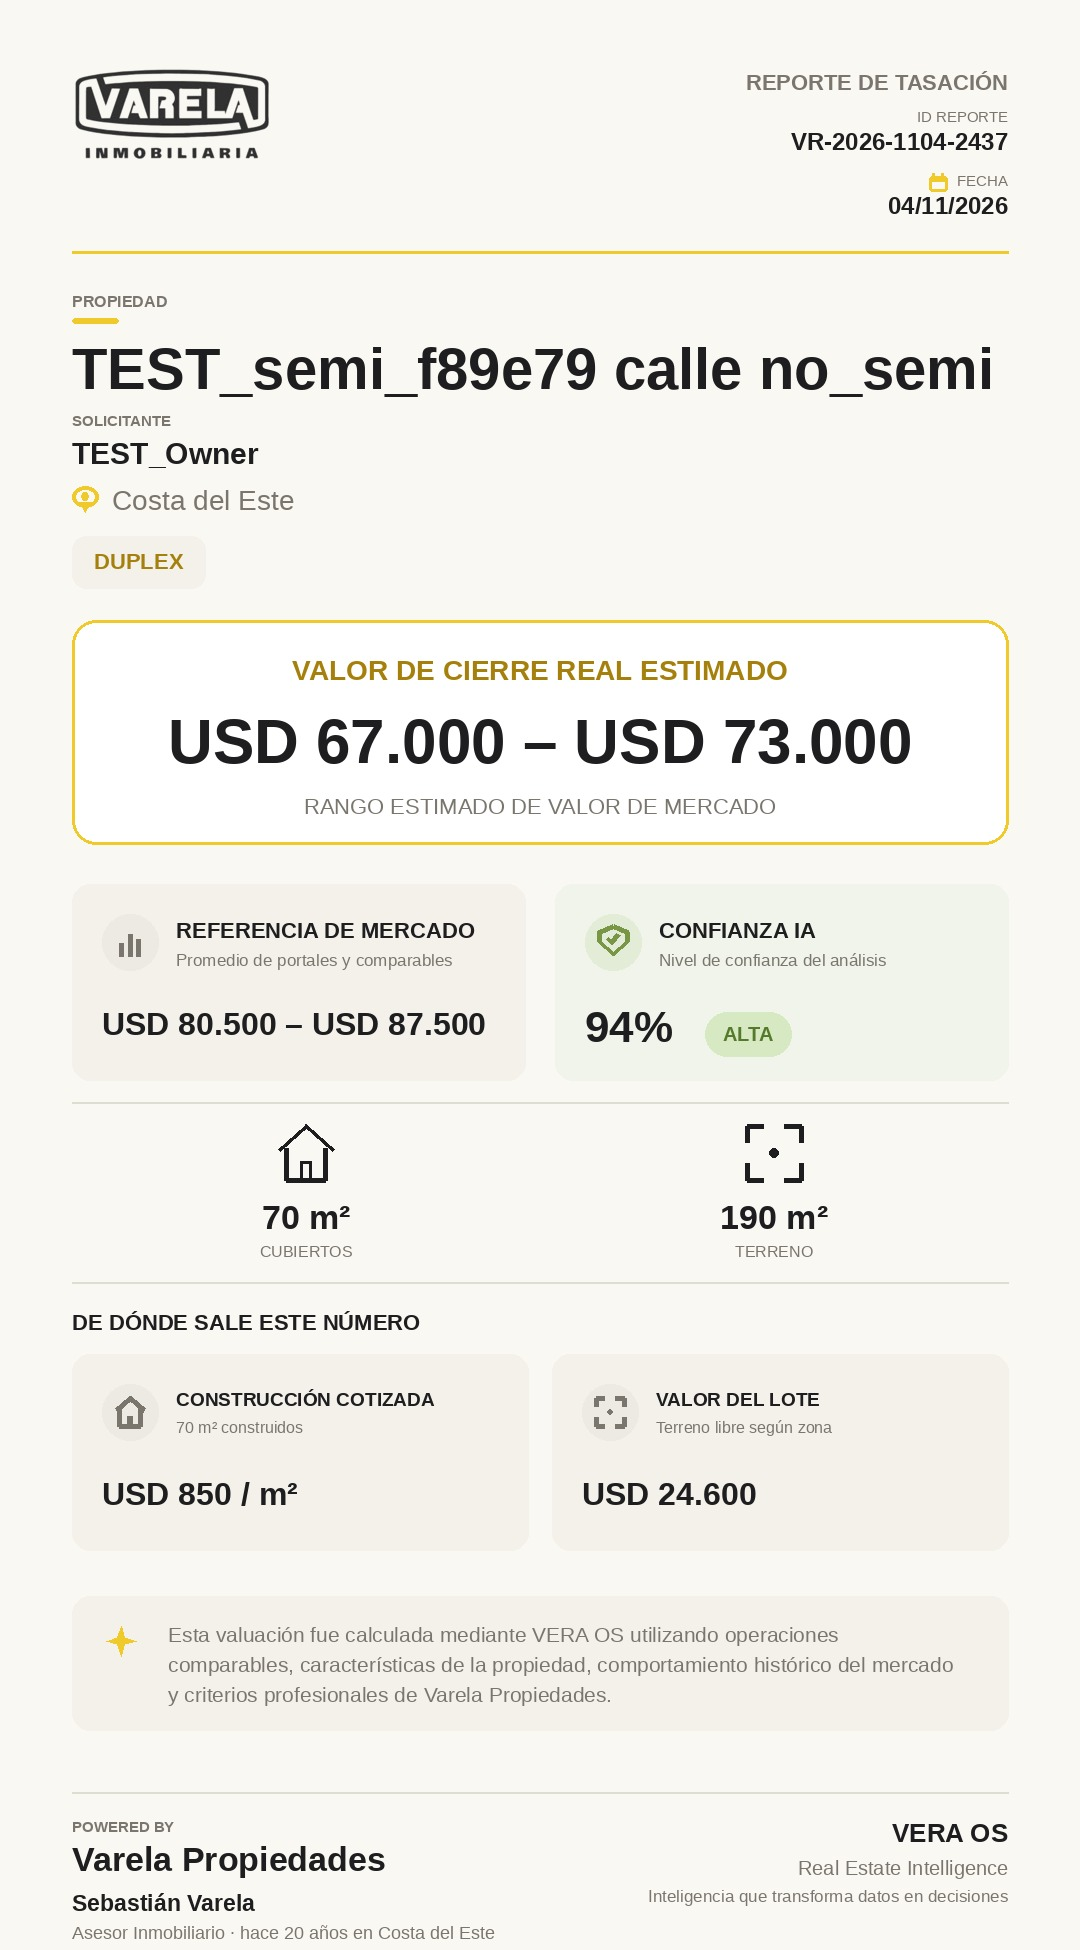
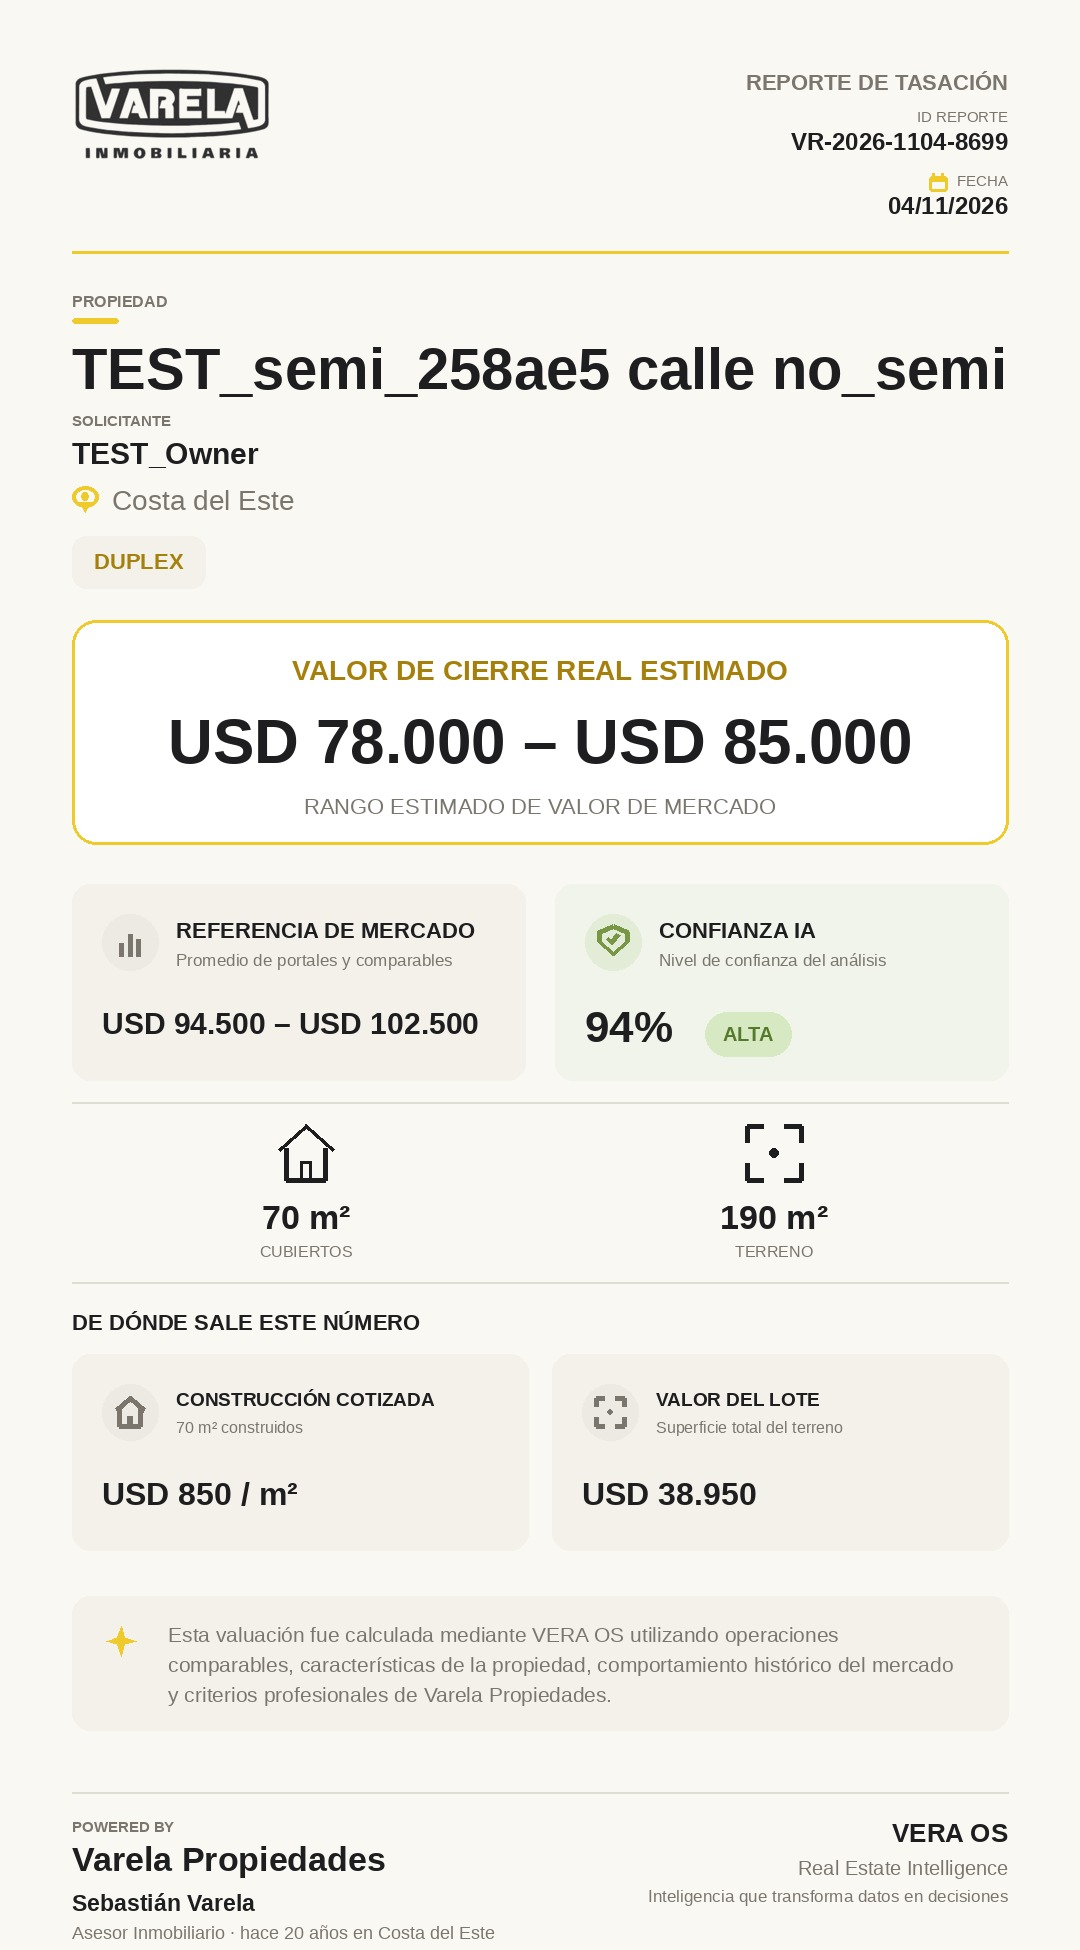
checkpoint before testing_agent_full_stack_o55
Emergent-Commit-Key: b6a98c2d860592682682dfc7d97cccc130f188e331d9eb842f36b57e02db1e72

diff --git a/backend/tests/test_tasacion_semicubiertos.py b/backend/tests/test_tasacion_semicubiertos.py
@@ -1,4 +1,5 @@
-# Tasaciones: semicubiertos al 50% del m² cubierto + lote libre = terreno - cub - semicub (iteration 84)
+# Tasaciones: semicubiertos al 50% del m² cubierto + lote cotizado por superficie TOTAL
+# del terreno (método de costo de reposición: terreno completo + construcción) (iteration 84/85)
 import base64
 import io
 import os
@@ -38,17 +39,18 @@ def test_calcular_duplex_with_semicubiertos(s):
     d = r.json()
     assert d["pm2Constr"] == 850
     assert d["valorSemicub"] == 8500
-    assert d["valorLote"] == 20500
+    assert d["valorLote"] == 190 * 205
     st = _steps(d)
     assert st.get("construcción cubierta (70m² × 850.0)") == 59500
     assert st.get("construcción semicubierta (20m² × 425, 50%)") == 8500
-    assert st.get("lote libre (100m² × 205.0)") == 20500
-    assert d["precioBase"] == 88500
-    assert d["pubMin"] == 84500 and d["pubMax"] == 92500
-    assert d["cierreMin"] == 70500 and d["cierreMax"] == 76500
+    assert st.get("lote (190m² × 205.0)") == 38950
+    assert d["precioBase"] == 106950
+    assert d["pubMin"] == 102500 and d["pubMax"] == 111500
+    assert d["cierreMin"] == 85000 and d["cierreMax"] == 92500
 
 
-# Regression: without semicubiertos identical to old formula
+# Regression: without semicubiertos, el lote sigue siendo la superficie total (sin cambios
+# de semicubiertos) pero sin el 50% extra de construcción.
 @pytest.mark.parametrize("semi", [0, None])
 def test_calcular_without_semicubiertos_regression(s, semi):
     b = dict(BODY)
@@ -59,15 +61,17 @@ def test_calcular_without_semicubiertos_regression(s, semi):
     d = s.post(f"{API}/calcular", json=b).json()
     assert d["valorSemicub"] == 0
     assert len(d["breakdown"]) == 2
-    assert d["valorLote"] == 120 * 205
-    assert d["precioBase"] == 70 * 850 + 120 * 205  # 84100
+    assert d["valorLote"] == 190 * 205
+    assert d["precioBase"] == 70 * 850 + 190 * 205  # 98450
 
 
-def test_semicub_exceeding_lote_clamps_lote_libre(s):
+def test_lote_valuation_uses_full_surface_not_libre(s):
+    """El lote se cotiza por su superficie TOTAL, no 'terreno - construido': aunque la
+    construcción cubra más superficie, el valor del lote no cambia."""
     b = dict(BODY, cubiertos=150, semicubiertos=60, lote=190)
     d = s.post(f"{API}/calcular", json=b).json()
-    assert d["valorLote"] == 0
-    assert d["precioBase"] == 150 * 850 + 60 * 425
+    assert d["valorLote"] == 190 * 205
+    assert d["precioBase"] == 150 * 850 + 60 * 425 + 190 * 205
 
 
 def test_semicub_other_calidad_and_multipliers(s):
@@ -75,7 +79,7 @@ def test_semicub_other_calidad_and_multipliers(s):
     d = s.post(f"{API}/calcular", json=b).json()
     assert d["pm2Constr"] == 1150
     assert d["valorSemicub"] == 20 * 575
-    expected = (70 * 1150 + 20 * 575 + 100 * 205) * 1.12 * 1.12
+    expected = (70 * 1150 + 20 * 575 + 190 * 205) * 1.12 * 1.12
     assert abs(d["precioBase"] - expected) <= 1
 
 

diff --git a/backend/tasacion.py b/backend/tasacion.py
@@ -182,16 +182,15 @@ def tasar(inp: dict, cfg: dict) -> dict:
             vconstr_cub = cub * pconstr
             vconstr_semi = semicub * pconstr_semi
             vconstr = vconstr_cub + vconstr_semi
-            # El lote "libre" (el que se cotiza aparte, a precio de terreno) es el
-            # terreno total MENOS toda la superficie techada, sea cubierta o semicubierta.
-            m2libre = max(0.0, lote - cub - semicub)
-            vlote = m2libre * plote
+            # El lote se cotiza por su superficie TOTAL (método de costo de reposición:
+            # terreno completo + construcción), igual que el tipo "lote" puro arriba.
+            vlote = lote * plote
             base = vconstr + vlote
             pm2_constr, valor_lote, valor_semicub = pconstr, vlote, vconstr_semi
             breakdown.append({"paso": f"construcción cubierta ({cub:.0f}m² × {pconstr})", "valor": vconstr_cub})
             if semicub:
                 breakdown.append({"paso": f"construcción semicubierta ({semicub:.0f}m² × {pconstr_semi:g}, 50%)", "valor": vconstr_semi})
-            breakdown.append({"paso": f"lote libre ({m2libre:.0f}m² × {plote})", "valor": vlote})
+            breakdown.append({"paso": f"lote ({lote:.0f}m² × {plote})", "valor": vlote})
             amap = {"estrenar": "mult_ant_estrenar", "hasta10": "mult_ant_hasta10",
                     "diez25": "mult_ant_10a25", "mas25": "mult_ant_mas25"}
             base *= v(amap.get(inp.get("antiguedad"), "mult_ant_hasta10"), 1)

diff --git a/backend/routes_tasacion.py b/backend/routes_tasacion.py
@@ -452,7 +452,7 @@ async def jpg(body: JpgBody):
             _ocard(ox, _ic_ware, semi_title, f"{semi} m² al 50% del cubierto", f"{_usd(round(r['pm2Constr'] / 2))} / m²")
             ox += ocw + ogap
         if show_lote:
-            _ocard(ox, _ic_land, lote_title, "Terreno libre según zona", _usd(r["valorLote"]))
+            _ocard(ox, _ic_land, lote_title, "Superficie total del terreno", _usd(r["valorLote"]))
         sy = ocy + och + 46
 
     # ---------------- Nota ----------------
